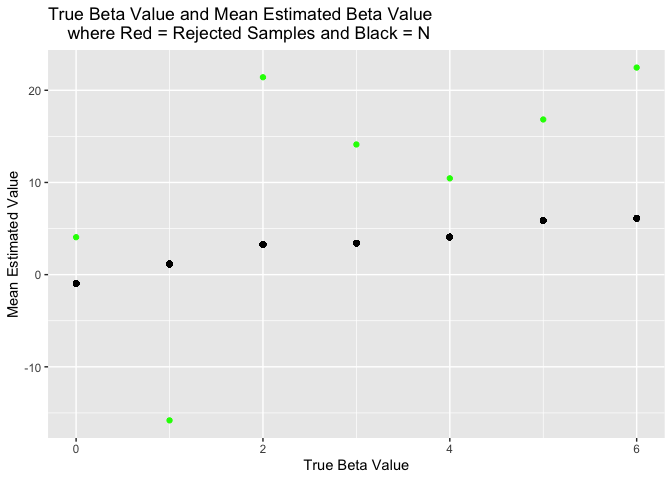
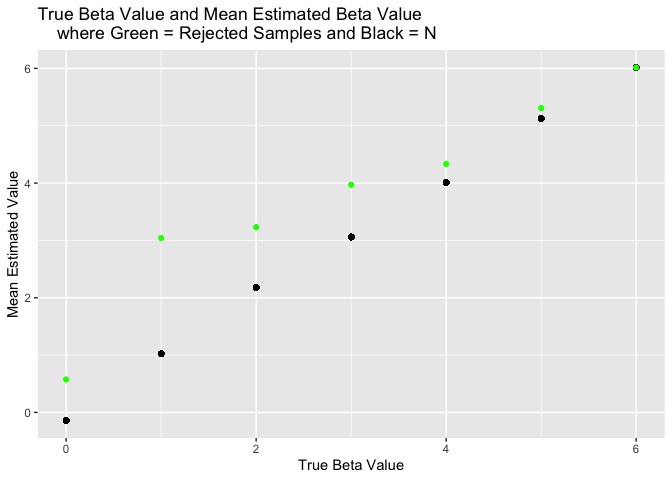
problem 3 - figured out I set the variance incorrectly. Updated and now running as expected. Need to make small changes and then submit.

diff --git a/p8105_hw5_hf2379.md b/p8105_hw5_hf2379.md
@@ -6,48 +6,12 @@ Holly Finertie
 ## Problem 1
 
 ``` r
-library(tidyverse)
-```
-
-    ## ── Attaching packages ────────────────────────────────────── tidyverse 1.2.1 ──
-
-    ## ✔ ggplot2 3.2.1     ✔ purrr   0.3.2
-    ## ✔ tibble  2.1.3     ✔ dplyr   0.8.3
-    ## ✔ tidyr   1.0.0     ✔ stringr 1.4.0
-    ## ✔ readr   1.3.1     ✔ forcats 0.4.0
-
-    ## ── Conflicts ───────────────────────────────────────── tidyverse_conflicts() ──
-    ## ✖ dplyr::filter() masks stats::filter()
-    ## ✖ dplyr::lag()    masks stats::lag()
-
-``` r
-library(rvest)
-```
-
-    ## Loading required package: xml2
-
-    ## 
-    ## Attaching package: 'rvest'
-
-    ## The following object is masked from 'package:purrr':
-    ## 
-    ##     pluck
-
-    ## The following object is masked from 'package:readr':
-    ## 
-    ##     guess_encoding
-
-``` r
-library(readr)
-
 set.seed(10)
 
 iris_with_missing = iris %>% 
   map_df(~replace(.x, sample(1:150, 20), NA)) %>%
   mutate(Species = as.character(Species))
-```
 
-``` r
 update_missing = function(x) {
   
   if(is.numeric(x)) {
@@ -91,230 +55,8 @@ longitudinal_study_df = source_df %>%
   mutate(
     observation = str_replace(observation, "\\.csv", "")
   )
-```
+ 
 
-    ## Parsed with column specification:
-    ## cols(
-    ##   week_1 = col_double(),
-    ##   week_2 = col_double(),
-    ##   week_3 = col_double(),
-    ##   week_4 = col_double(),
-    ##   week_5 = col_double(),
-    ##   week_6 = col_double(),
-    ##   week_7 = col_double(),
-    ##   week_8 = col_double()
-    ## )
-    ## Parsed with column specification:
-    ## cols(
-    ##   week_1 = col_double(),
-    ##   week_2 = col_double(),
-    ##   week_3 = col_double(),
-    ##   week_4 = col_double(),
-    ##   week_5 = col_double(),
-    ##   week_6 = col_double(),
-    ##   week_7 = col_double(),
-    ##   week_8 = col_double()
-    ## )
-    ## Parsed with column specification:
-    ## cols(
-    ##   week_1 = col_double(),
-    ##   week_2 = col_double(),
-    ##   week_3 = col_double(),
-    ##   week_4 = col_double(),
-    ##   week_5 = col_double(),
-    ##   week_6 = col_double(),
-    ##   week_7 = col_double(),
-    ##   week_8 = col_double()
-    ## )
-    ## Parsed with column specification:
-    ## cols(
-    ##   week_1 = col_double(),
-    ##   week_2 = col_double(),
-    ##   week_3 = col_double(),
-    ##   week_4 = col_double(),
-    ##   week_5 = col_double(),
-    ##   week_6 = col_double(),
-    ##   week_7 = col_double(),
-    ##   week_8 = col_double()
-    ## )
-    ## Parsed with column specification:
-    ## cols(
-    ##   week_1 = col_double(),
-    ##   week_2 = col_double(),
-    ##   week_3 = col_double(),
-    ##   week_4 = col_double(),
-    ##   week_5 = col_double(),
-    ##   week_6 = col_double(),
-    ##   week_7 = col_double(),
-    ##   week_8 = col_double()
-    ## )
-    ## Parsed with column specification:
-    ## cols(
-    ##   week_1 = col_double(),
-    ##   week_2 = col_double(),
-    ##   week_3 = col_double(),
-    ##   week_4 = col_double(),
-    ##   week_5 = col_double(),
-    ##   week_6 = col_double(),
-    ##   week_7 = col_double(),
-    ##   week_8 = col_double()
-    ## )
-    ## Parsed with column specification:
-    ## cols(
-    ##   week_1 = col_double(),
-    ##   week_2 = col_double(),
-    ##   week_3 = col_double(),
-    ##   week_4 = col_double(),
-    ##   week_5 = col_double(),
-    ##   week_6 = col_double(),
-    ##   week_7 = col_double(),
-    ##   week_8 = col_double()
-    ## )
-    ## Parsed with column specification:
-    ## cols(
-    ##   week_1 = col_double(),
-    ##   week_2 = col_double(),
-    ##   week_3 = col_double(),
-    ##   week_4 = col_double(),
-    ##   week_5 = col_double(),
-    ##   week_6 = col_double(),
-    ##   week_7 = col_double(),
-    ##   week_8 = col_double()
-    ## )
-    ## Parsed with column specification:
-    ## cols(
-    ##   week_1 = col_double(),
-    ##   week_2 = col_double(),
-    ##   week_3 = col_double(),
-    ##   week_4 = col_double(),
-    ##   week_5 = col_double(),
-    ##   week_6 = col_double(),
-    ##   week_7 = col_double(),
-    ##   week_8 = col_double()
-    ## )
-    ## Parsed with column specification:
-    ## cols(
-    ##   week_1 = col_double(),
-    ##   week_2 = col_double(),
-    ##   week_3 = col_double(),
-    ##   week_4 = col_double(),
-    ##   week_5 = col_double(),
-    ##   week_6 = col_double(),
-    ##   week_7 = col_double(),
-    ##   week_8 = col_double()
-    ## )
-    ## Parsed with column specification:
-    ## cols(
-    ##   week_1 = col_double(),
-    ##   week_2 = col_double(),
-    ##   week_3 = col_double(),
-    ##   week_4 = col_double(),
-    ##   week_5 = col_double(),
-    ##   week_6 = col_double(),
-    ##   week_7 = col_double(),
-    ##   week_8 = col_double()
-    ## )
-    ## Parsed with column specification:
-    ## cols(
-    ##   week_1 = col_double(),
-    ##   week_2 = col_double(),
-    ##   week_3 = col_double(),
-    ##   week_4 = col_double(),
-    ##   week_5 = col_double(),
-    ##   week_6 = col_double(),
-    ##   week_7 = col_double(),
-    ##   week_8 = col_double()
-    ## )
-    ## Parsed with column specification:
-    ## cols(
-    ##   week_1 = col_double(),
-    ##   week_2 = col_double(),
-    ##   week_3 = col_double(),
-    ##   week_4 = col_double(),
-    ##   week_5 = col_double(),
-    ##   week_6 = col_double(),
-    ##   week_7 = col_double(),
-    ##   week_8 = col_double()
-    ## )
-    ## Parsed with column specification:
-    ## cols(
-    ##   week_1 = col_double(),
-    ##   week_2 = col_double(),
-    ##   week_3 = col_double(),
-    ##   week_4 = col_double(),
-    ##   week_5 = col_double(),
-    ##   week_6 = col_double(),
-    ##   week_7 = col_double(),
-    ##   week_8 = col_double()
-    ## )
-    ## Parsed with column specification:
-    ## cols(
-    ##   week_1 = col_double(),
-    ##   week_2 = col_double(),
-    ##   week_3 = col_double(),
-    ##   week_4 = col_double(),
-    ##   week_5 = col_double(),
-    ##   week_6 = col_double(),
-    ##   week_7 = col_double(),
-    ##   week_8 = col_double()
-    ## )
-    ## Parsed with column specification:
-    ## cols(
-    ##   week_1 = col_double(),
-    ##   week_2 = col_double(),
-    ##   week_3 = col_double(),
-    ##   week_4 = col_double(),
-    ##   week_5 = col_double(),
-    ##   week_6 = col_double(),
-    ##   week_7 = col_double(),
-    ##   week_8 = col_double()
-    ## )
-    ## Parsed with column specification:
-    ## cols(
-    ##   week_1 = col_double(),
-    ##   week_2 = col_double(),
-    ##   week_3 = col_double(),
-    ##   week_4 = col_double(),
-    ##   week_5 = col_double(),
-    ##   week_6 = col_double(),
-    ##   week_7 = col_double(),
-    ##   week_8 = col_double()
-    ## )
-    ## Parsed with column specification:
-    ## cols(
-    ##   week_1 = col_double(),
-    ##   week_2 = col_double(),
-    ##   week_3 = col_double(),
-    ##   week_4 = col_double(),
-    ##   week_5 = col_double(),
-    ##   week_6 = col_double(),
-    ##   week_7 = col_double(),
-    ##   week_8 = col_double()
-    ## )
-    ## Parsed with column specification:
-    ## cols(
-    ##   week_1 = col_double(),
-    ##   week_2 = col_double(),
-    ##   week_3 = col_double(),
-    ##   week_4 = col_double(),
-    ##   week_5 = col_double(),
-    ##   week_6 = col_double(),
-    ##   week_7 = col_double(),
-    ##   week_8 = col_double()
-    ## )
-    ## Parsed with column specification:
-    ## cols(
-    ##   week_1 = col_double(),
-    ##   week_2 = col_double(),
-    ##   week_3 = col_double(),
-    ##   week_4 = col_double(),
-    ##   week_5 = col_double(),
-    ##   week_6 = col_double(),
-    ##   week_7 = col_double(),
-    ##   week_8 = col_double()
-    ## )
-
-``` r
 study_plot = longitudinal_study_df %>% 
   group_by(observation) %>% 
   ggplot(aes(x = week, y = values, color = arm, group = arm)) + 
@@ -328,7 +70,7 @@ study_plot = longitudinal_study_df %>%
 study_plot
 ```
 
-![](p8105_hw5_hf2379_files/figure-gfm/unnamed-chunk-3-1.png)<!-- -->
+![](p8105_hw5_hf2379_files/figure-gfm/problem2-1.png)<!-- -->
 
 #### Comment on Plot
 
@@ -341,19 +83,20 @@ of treatment.
 ## Problem 3:
 
 ``` r
-library(broom)
 set.seed(10)
 
 sim_regression = function(n = 30, beta0 = 2, beta1, var = 50) {
   
   sim_data = tibble(
     x = rnorm(n, mean = 0, sd = 1),
-    y = beta0 + beta1 * x + rnorm(n, 0, var)
+    y = beta0 + beta1 * x + rnorm(n, 0, var^0.5)
   )
   
   ls_fit = lm(y ~ x, data = sim_data)
   
   tidy(ls_fit)
+  
+  
     
 }
 
@@ -396,7 +139,7 @@ plot1 = sim_results %>%
 plot1
 ```
 
-![](p8105_hw5_hf2379_files/figure-gfm/unnamed-chunk-4-1.png)<!-- -->
+![](p8105_hw5_hf2379_files/figure-gfm/problem3-1.png)<!-- -->
 
 As expected, power increases with effect size. When beta1 increases, the
 effect size increases and therefore it is “easier” to correctly reject
@@ -422,10 +165,10 @@ plot3_data = sim_results %>%
   geom_point(data = plot3_data, color = "green") + 
   labs(
     title = "True Beta Value and Mean Estimated Beta Value
-    where Red = Rejected Samples and Black = N", 
+    where Green = Rejected Samples and Black = N", 
     x = "True Beta Value", 
     y = "Mean Estimated Value"
   )
 ```
 
-![](p8105_hw5_hf2379_files/figure-gfm/unnamed-chunk-5-1.png)<!-- -->
+![](p8105_hw5_hf2379_files/figure-gfm/unnamed-chunk-1-1.png)<!-- -->
